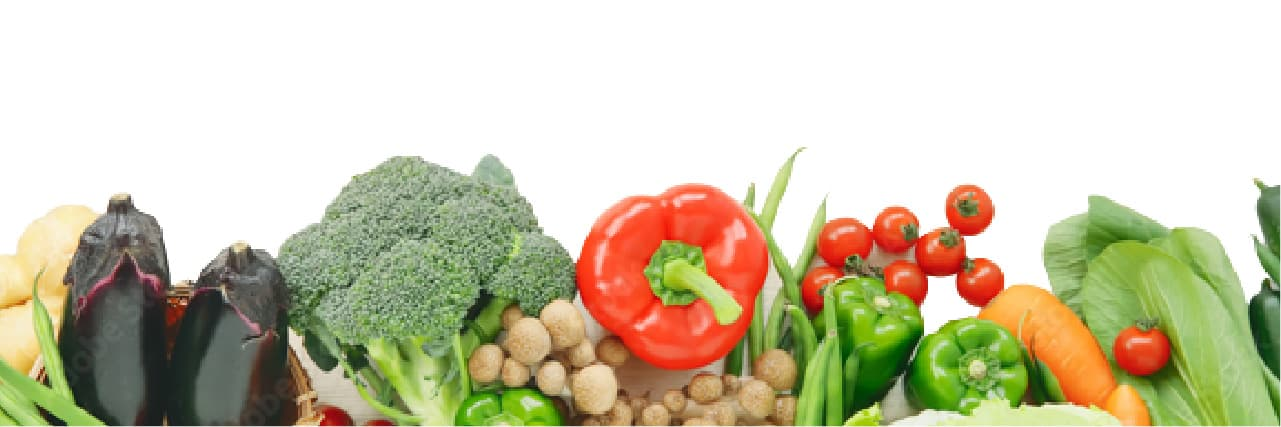
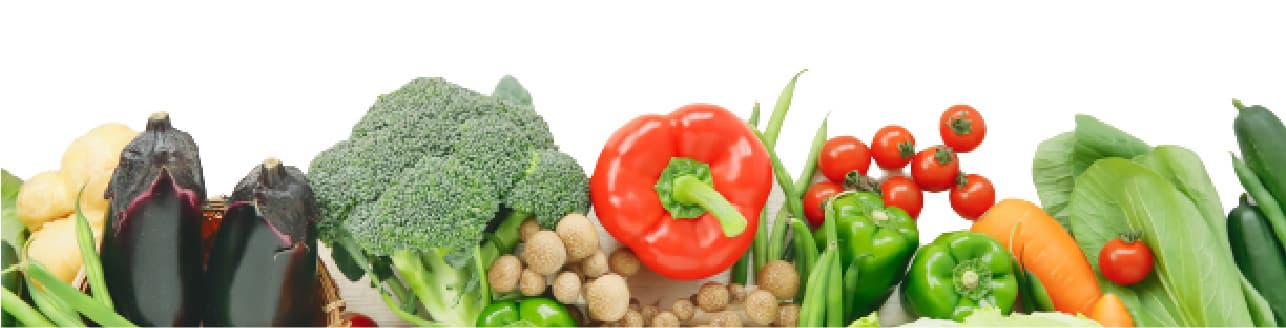
modified index.html and style.css change some image files

diff --git a/assets/css/style.css b/assets/css/style.css
@@ -100,42 +100,6 @@ li {
   list-style: none;
 }
 
-.l-header {
-  width: 19.5rem;
-  top: 0;
-  z-index: 999;
-  background-color: #ffffff;
-  position: relative;
-}
-@media (max-width: 576px) {
-  .l-header {
-    width: max(15rem, 35vw);
-  }
-}
-.l-header__content {
-  padding: 3.2rem 2rem 1rem;
-  display: block;
-  width: 100%;
-  height: auto;
-}
-@media (max-width: 576px) {
-  .l-header__content {
-    padding: 1rem;
-  }
-}
-.l-header__logo {
-  display: -webkit-box;
-  display: -ms-flexbox;
-  display: flex;
-  -webkit-box-pack: center;
-      -ms-flex-pack: center;
-          justify-content: center;
-  -webkit-box-align: center;
-      -ms-flex-align: center;
-          align-items: center;
-  margin: 0 auto;
-}
-
 .l-footer {
   background-color: #ffffff;
 }
@@ -154,15 +118,26 @@ li {
 }
 @media (max-width: 576px) {
   .l-footer__content {
-    gap: 0;
-    -webkit-box-orient: vertical;
-    -webkit-box-direction: reverse;
-        -ms-flex-direction: column-reverse;
-            flex-direction: column-reverse;
+    display: block;
+    position: relative;
+    width: 100%;
+    height: auto;
   }
 }
 .l-footer__logo {
   height: auto;
+}
+.l-footer__nav {
+  margin-top: 2.5rem;
+}
+@media (max-width: 576px) {
+  .l-footer__nav {
+    position: absolute;
+    left: 50%;
+    top: 85%;
+    -webkit-transform: translateX(-50%);
+            transform: translateX(-50%);
+  }
 }
 .l-footer__nav ul {
   display: -webkit-box;
@@ -183,20 +158,25 @@ li {
   margin-bottom: 1.5rem;
   font-size: 1.2rem;
 }
-.l-footer__nav ul li {
-  text-align: left;
-}
 @media (max-width: 576px) {
   .l-footer__nav ul {
     -webkit-box-orient: horizontal;
     -webkit-box-direction: normal;
         -ms-flex-direction: row;
             flex-direction: row;
-    width: 30rem;
-    gap: 2rem;
+    gap: 1.5rem;
     margin-bottom: 0;
     font-size: 1.1rem;
+    -webkit-box-pack: center;
+        -ms-flex-pack: center;
+            justify-content: center;
+    width: 350rem;
+    margin: 0 auto;
+    color: #ffffff;
   }
+}
+.l-footer li {
+  text-align: left;
 }
 .l-footer small {
   background-color: #009933;
@@ -205,9 +185,15 @@ li {
   font-family: "DIN Alternate", "notosans", "Hiragino Kaku Gothic ProN", "Arial", "Yu Gothic", "Meiryo", sans-serif;
   color: #ffffff;
   text-align: center;
-  height: 4rem;
   display: block;
+  height: 4rem;
   line-height: 4rem;
+}
+@media (max-width: 576px) {
+  .l-footer small {
+    height: 7rem;
+    padding-top: 3rem;
+  }
 }
 
 .c-inner {
@@ -281,8 +267,6 @@ li {
 .p-fv {
   width: 100%;
   max-width: 64rem;
-  position: absolute;
-  top: 0;
   display: block;
 }
 .p-fv__height {
@@ -290,9 +274,14 @@ li {
 }
 
 .p-cta {
-  padding-top: 3rem;
+  padding-top: 6rem;
   background: -webkit-gradient(linear, left top, left bottom, from(#fdf7ed), color-stop(20%, transparent));
   background: linear-gradient(#fdf7ed, transparent 20%);
+}
+@media (max-width: 576px) {
+  .p-cta {
+    padding-top: 2rem;
+  }
 }
 .p-cta__bgBase {
   background: #ffffff;
@@ -303,11 +292,11 @@ li {
 }
 .p-cta__heading img {
   margin: 0 auto;
-  width: 27rem;
-  height: 5rem;
+  width: min(27rem, 42vw);
+  height: auto;
 }
 .p-cta__btn {
-  margin: 2.4rem auto;
+  margin: 2rem auto 0.5rem;
   display: -webkit-box;
   display: -ms-flexbox;
   display: flex;
@@ -337,19 +326,31 @@ li {
     width: 5.6vw;
   }
 }
+.p-cta__img {
+  margin-top: 5.5rem;
+}
+@media (max-width: 576px) {
+  .p-cta__img {
+    margin-top: 3rem;
+  }
+}
 .p-cta__img img {
   width: 100%;
-  height: 20rem;
-  -o-object-fit: cover;
-     object-fit: cover;
+  -o-object-fit: contain;
+     object-fit: contain;
   -o-object-position: bottom;
      object-position: bottom;
 }
-.p-cta__img__short img {
-  height: 15rem;
+.p-cta__img__short {
+  margin-top: 0;
 }
-.p-cta__pt {
-  padding-top: 8rem;
+.p-cta.u-pt__40 {
+  padding-top: 4rem;
+}
+@media (max-width: 576px) {
+  .p-cta.u-pt__40 {
+    padding-top: 2rem;
+  }
 }
 
 .p-campaign {
@@ -729,11 +730,12 @@ li {
 }
 @media (max-width: 576px) {
   .p-contact__text {
-    font-size: 4vw;
+    font-size: 3.7vw;
   }
 }
 .p-contact__phone {
-  font-size: 5.8rem;
+  font-size: min(9.5vw, 5.7rem);
+  letter-spacing: -0.01em;
   line-height: 1;
   margin-top: 2.5rem;
   display: -webkit-box;
@@ -750,30 +752,20 @@ li {
 .p-contact__phone::before {
   content: "";
   display: block;
-  width: 5.6rem;
-  height: 5.6rem;
+  width: min(8.7vw, 5.6rem);
+  height: min(8.7vw, 5.6rem);
   background: url("../../assets/img/contact-phone.svg") center/contain no-repeat;
-  margin-right: 1rem;
-}
-@media (max-width: 576px) {
-  .p-contact__phone {
-    font-size: max(4rem, 9.6vw);
-  }
+  margin-right: 0.2em;
 }
 .p-contact__detail {
-  font-size: 1.7rem;
+  font-size: min(2.6vw, 1.7rem);
   font-weight: bold;
   font-family: "Helvetica", "Hiragino Kaku Gothic ProN", "Arial", "Yu Gothic", "Meiryo", sans-serif;
   margin-top: 0.5rem;
   line-height: 1.2;
 }
-@media (max-width: 576px) {
-  .p-contact__detail {
-    font-size: 4vw;
-  }
-}
 .p-contact__btn {
-  margin-top: 4rem;
+  margin-top: min(6vw, 4rem);
   background: #ff9900;
   letter-spacing: 0.01em;
 }

diff --git a/index.html b/index.html
@@ -19,11 +19,11 @@
 <body>
   <!-- header -->
   <header class="l-header">
-    <a href="#" class="l-header__content">
+    <!-- <a href="#" class="l-header__content">
       <div class="l-header__logo">
         <img src="./assets/img/logo.svg" alt="トドック">
       </div>
-    </a>
+    </a> -->
   </header>
   <!-- //header -->
   <!-- main -->
@@ -32,7 +32,7 @@
     <section class="p-fv">
       <h1><img src="./assets/img/fv@2x-80.jpg" alt="冷蔵・冷凍食品も置き配できる宅配トドック" width="736" height="967"></h1>
     </section>
-    <div class="p-fv__height"></div>
+    <!-- <div class="p-fv__height"></div> -->
     <!-- //section fv -->
     <!-- CTA -->
     <div class="p-cta p-cta__bgBase">
@@ -88,7 +88,7 @@
     </section>
     <!-- //section campaign -->
     <!-- CTA -->
-    <div class="p-cta">
+    <div class="p-cta u-pt__40">
       <div class="p-cta__heading"><img src="./assets/img/cta-heading@2x-8.png" alt="8週間連続8%off"></div>
       <button onclick="location.href='https://todok.sapporo.coop/entrance?version=welcome&amp;from=web_ad'" class="c-btn p-cta__btn">宅配トドックをはじめる</button>
       <div class="p-cta__img"><img src="./assets/img/cta-img@2x-80.jpg" alt="新線野菜の画像"></div>
@@ -150,7 +150,7 @@
     </section>
     <!-- //section reason -->
     <!-- CTA -->
-    <div class="p-cta p-cta__bgYellow">
+    <div class="p-cta p-cta__bgYellow u-pt__40">
       <div class="p-cta__heading"><img src="./assets/img/cta-heading@2x-8.png" alt="8週間連続8%off"></div>
       <button onclick="location.href='https://todok.sapporo.coop/entrance?version=welcome&amp;from=web_ad'" class="c-btn p-cta__btn">宅配トドックをはじめる</button>
       <div class="p-cta__img"><img src="./assets/img/cta-img@2x-80.jpg" alt="新線野菜の画像"></div>
@@ -228,7 +228,7 @@
     </section>
     <!-- section lineup -->
     <!-- CTA -->
-    <div class="p-cta p-cta__pt">
+    <div class="p-cta">
       <div class="p-cta__heading"><img src="./assets/img/cta-heading@2x-8.png" alt="8週間連続8%off"></div>
       <button onclick="location.href='https://todok.sapporo.coop/entrance?version=welcome&amp;from=web_ad'" class="c-btn p-cta__btn">宅配トドックをはじめる</button>
       <div class="p-cta__img"><img src="./assets/img/cta-img@2x-80.jpg" alt="新線野菜の画像"></div>
@@ -274,7 +274,7 @@
     </section>
     <!-- //section-compare -->
     <!-- CTA -->
-    <div class="p-cta">
+    <div class="p-cta u-pt__40">
       <div class="p-cta__heading"><img src="./assets/img/cta-heading@2x-8.png" alt="8週間連続8%off"></div>
       <button onclick="location.href='https://todok.sapporo.coop/entrance?version=welcome&amp;from=web_ad'" class="c-btn p-cta__btn">宅配トドックをはじめる</button>
       <div class="p-cta__img"><img src="./assets/img/cta-img@2x-80.jpg" alt="新線野菜の画像"></div>
@@ -293,7 +293,7 @@
     </section>
     <!-- //section shopping -->
     <!-- CTA -->
-    <div class="p-cta p-cta__bgYellow">
+    <div class="p-cta p-cta__bgYellow u-pt__40">
       <div class="p-cta__heading"><img src="./assets/img/cta-heading@2x-8.png" alt="8週間連続8%off"></div>
       <button onclick="location.href='https://todok.sapporo.coop/entrance?version=welcome&amp;from=web_ad'" class="c-btn p-cta__btn">宅配トドックをはじめる</button>
       <div class="p-cta__img"><img src="./assets/img/cta-img@2x-80.jpg" alt="新線野菜の画像"></div>
@@ -421,7 +421,7 @@
     </section>
     <!-- //section campaign -->
     <!-- CTA -->
-    <div class="p-cta">
+    <div class="p-cta p-cta__bgBase">
       <div class="p-cta__heading"><img src="./assets/img/cta-heading@2x-8.png" alt="8週間連続8%off"></div>
       <button onclick="location.href='https://todok.sapporo.coop/entrance?version=welcome&amp;from=web_ad'" class="c-btn p-cta__btn">宅配トドックをはじめる</button>
     </div>
@@ -445,6 +445,7 @@
         <ul>
           <li><a href="https://www.sapporo.coop/policy/web/?_gl=1*lk37h7*_gcl_aw*R0NMLjE2MTc2OTMyODkuQ2p3S0NBandqYkNEQmhBd0Vpd0FpdWRCeTJqbGg5Q1ByNWE4emlaaGVCQXVGVzcxbmZQSVFLMGZYSWNzTFhaTnJNamtsc1QxT0RRYmpob0NxM2dRQXZEX0J3RQ">サイト利用規定</a></li>
           <li><a href="https://www.sapporo.coop/corporate/content/?id=60&amp;_gl=1*g8b50d*_gcl_aw*R0NMLjE2MTc2OTMzMDkuQ2p3S0NBandqYkNEQmhBd0Vpd0FpdWRCeTJqbGg5Q1ByNWE4emlaaGVCQXVGVzcxbmZQSVFLMGZYSWNzTFhaTnJNamtsc1QxT0RRYmpob0NxM2dRQXZEX0J3R">プライバシーポリシー</a></li>
+          <li><a href="#">特定商取引に関する表示</a></li>
         </ul>
       </nav>
     </div>
